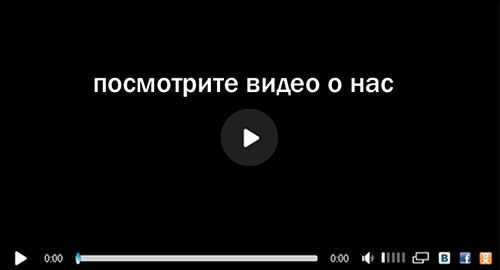
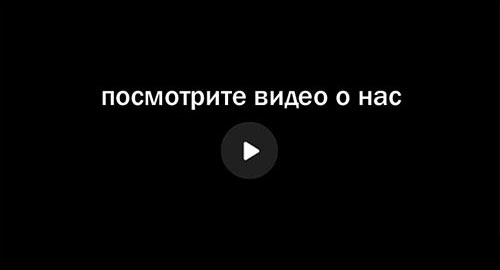
metrika code + video

Changed region(s): [[0.18, 0.2667, 0.81, 0.6815], [0.09, 0.9185, 0.99, 1.0], [0.03, 0.9185, 0.06, 0.9778]]

diff --git a/index.html b/index.html
@@ -29,7 +29,13 @@
             ж/д тупик. ж/д весы. аренда складов.<br>
             погрузка/разгрузка вагонов и фур. 
           </div>
-          <img src="images/video.jpg"/>
+          <div class="video">
+            <div style="background-color: black;" class="pie-video-block"></div>
+            <img src="images/video.jpg" id="video-image" class="pie-video-block" data-embed='<iframe width="500" height="270" src="https://www.youtube.com/embed/G_s5ckaSj3c?rel=0&amp;showinfo=0&amp;autoplay=1" frameborder="0" allowfullscreen></iframe>'/>
+            <div class="embed pie-video-block">
+            </div>
+            
+          </div>
         </div>
         <div class="column right" style="width: 320px;">
           <div class="phone">
@@ -47,7 +53,7 @@
         <div class='form'>
           <input name="name1" id="name" placeholder="Введите имя"/>
           <input name="phone1" id="phone" placeholder="Введите телефон"/>
-          <input type="submit" class="button button-orange" id="submit_button" value='УЗНАТЬ СТОИМОСТЬ!' onclick="yaCounter28864155.reachGoal('lead-middle');" style="padding: 10px;"/>
+          <input type="submit" class="button button-orange" id="submit_button" value='УЗНАТЬ СТОИМОСТЬ!' onclick="yaCounter29229995.reachGoal('lead-middle');" style="padding: 10px;"/>
           
           <a href='#' class="green openPolitics">Политика конфидециальности</a>
         </div>
@@ -214,7 +220,7 @@
           <input type="text" class="form-input form-name" id="name" placeholder="Введите имя"></input>
           <input type="text" input-mask class="form-input form-phone" id="phone" placeholder="Введите телефон"></input>
           <input type="text" class="form-input form-mail" id="email" placeholder="Введите e-mail"></input>
-          <input type="submit" class="button button-blue" id="manager-button" value='ХОЧУ ПОСМОТРЕТЬ!' onclick="yaCounter28864155.reachGoal('lead-map');"/>
+          <input type="submit" class="button button-blue" id="manager-button" value='ХОЧУ ПОСМОТРЕТЬ!' onclick="yaCounter29229995.reachGoal('lead-map');"/>
           <a href='#' class="openPolitics" style="color: #aaa; padding-left: 15px;">Политика конфидециальности</a>
         </div>
 
@@ -225,7 +231,7 @@
           <div class="form-title" style="font-size: 30px; margin-bottom: 20px; margin-top: 10px;"><b>СПЕЦПРЕДЛОЖЕНИЕ<br>НА АРЕНДУ<br>ДО 15 АПРЕЛЯ</b></div>
           <input type="text" class="form-input form-name" id="name" placeholder="Введите имя"></input>
           <input type="text" input-mask class="form-input form-phone" id="phone" placeholder="Введите телефон"></input>
-          <input type="submit" class="button button-green" id="manager-button" value='УЗНАТЬ ПОДРОБНОСТИ!' onclick="yaCounter28864155.reachGoal('lead-map');"/>
+          <input type="submit" class="button button-green" id="manager-button" value='УЗНАТЬ ПОДРОБНОСТИ!' onclick="yaCounter29229995.reachGoal('lead-map');"/>
           <a href='#' class="green openPolitics">Политика конфидециальности</a>
         </div>
         <div class="storage-comments" style="top: 57px; left: 150px;">Общая площадь: 1 400 кв.м.,<br>возможно арендовать по частям. </div>
@@ -405,7 +411,7 @@
         <div class='form'>
           <input type="text" name="name1" id="name" placeholder="Введите имя"/>
           <input type="text" name="phone1" id="phone" placeholder="Введите телефон"/>
-          <input type="submit" class="button button-orange" id="submit_button" value='УЗНАТЬ СТОИМОСТЬ' onclick="yaCounter28864155.reachGoal('lead-middle');" style="padding: 8px;"/>
+          <input type="submit" class="button button-orange" id="submit_button" value='УЗНАТЬ СТОИМОСТЬ' onclick="yaCounter29229995.reachGoal('lead-middle');" style="padding: 8px;"/>
           
           <a href='#' class="green openPolitics">Политика конфидециальности</a>
         </div>
@@ -449,7 +455,7 @@
   (function (d, w, c) {
       (w[c] = w[c] || []).push(function() {
           try {
-              w.yaCounter28864155 = new Ya.Metrika({id:28864155,
+              w.yaCounter29229995 = new Ya.Metrika({id:29229995,
                       webvisor:true,
                       clickmap:true,
                       trackLinks:true,
@@ -469,9 +475,8 @@
       } else { f(); }
   })(document, window, "yandex_metrika_callbacks");
   </script>
-  <noscript><div><img src="//mc.yandex.ru/watch/28864155" style="position:absolute; left:-9999px;" alt="" /></div></noscript>
+  <noscript><div><img src="//mc.yandex.ru/watch/29229995" style="position:absolute; left:-9999px;" alt="" /></div></noscript>
   <!-- /Yandex.Metrika counter -->
-  <script type="text/javascript">(window.Image ? (new Image()) : document.createElement('img')).src = 'http://vk.com/rtrg?r=wvw64oM*z6hcijm32y1BWtEYXBCjVlcljuW5cq6ZmPUhCbUxDKBrU1Vj0FV4/WM4cliyeSyWSb/MLotnD2Sl/hAI2JRvWBCM9Y5xm9IqUunZL108usQD9AC23G1v2*DLps53/VoJO*eq8sf5t1WvJBX71DPT*xGu4NcJO3CFOS4-';</script>
 
 </body>
 </html>

diff --git a/script.js b/script.js
@@ -17,11 +17,11 @@ $(document).ready(function() {
 
   var videoLink = "http://player.vimeo.com/video/118600750?autoplay=1&color=b4d700&title=0&byline=0&portrait=0";
 
-  $('.video .play').click(function(){
+  $('#video-image').click(function(){
     var embed = $(this).parent().find('.embed');
     $(this).fadeOut('fast');
     embed.html($(this).data('embed')).show();
-    yaCounter28864155.reachGoal('video');
+    yaCounter29229995.reachGoal('video');
     return false;
   })
 

diff --git a/style.css b/style.css
@@ -261,12 +261,26 @@ input[type='button'] {
 }
 
 #main .video {
-  width: 663px;
+  width: 500px;
   height: 311px;
   background: url(images/video.png);
   margin-top: -10px;
   text-align: center;
   float: left;
+  position: relative;
+}
+
+#main .pie-video-block {
+  position: absolute;
+  top: 0px;
+  left: 0px;
+  width: 500px;
+  height: 270px;
+}
+
+#video-image {
+  z-index: 20;
+  cursor: pointer;
 }
 
 .lead-block {
